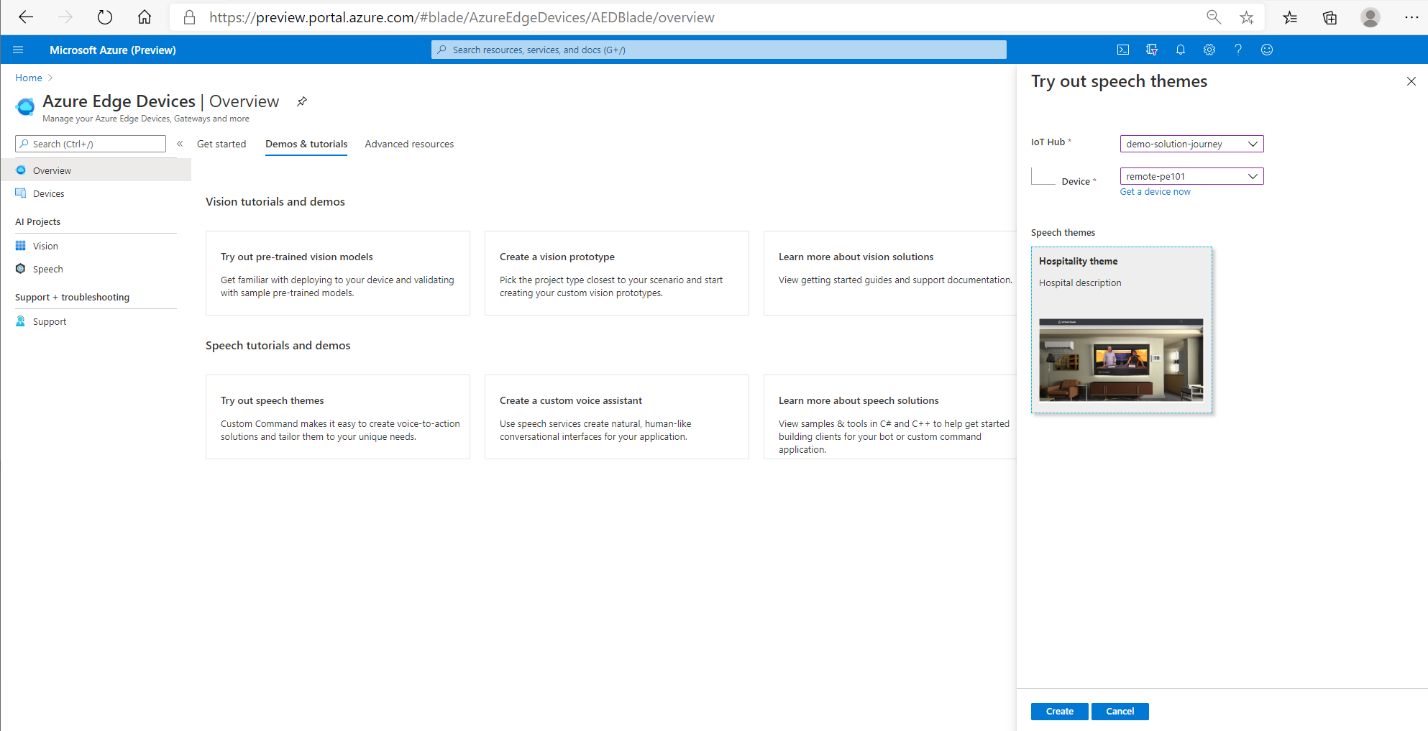
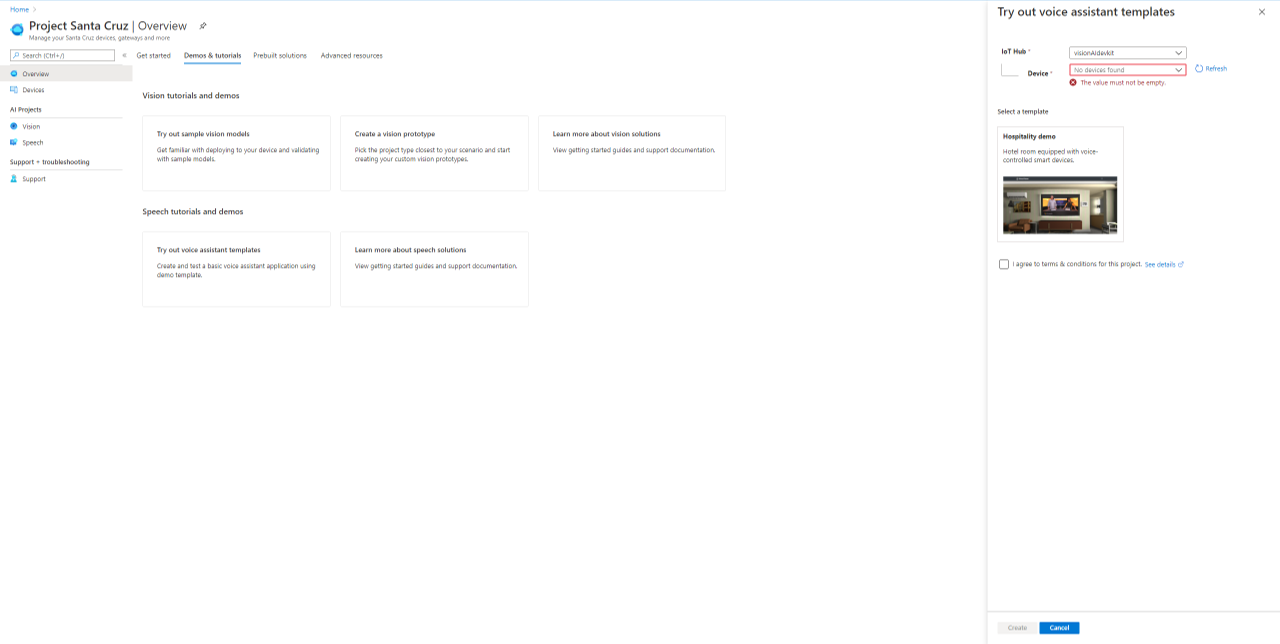
minor text update

diff --git a/user-guides/prototyping/nocode-speech.md b/user-guides/prototyping/nocode-speech.md
@@ -42,7 +42,7 @@ Alternatively, you can navigate directly to the [Project Santa Cruz Overview pag
 You can build a voice assistant using available templates. The Hospitality template is available for the private preview. Healthcare is also scheduled to be released soon.
 
 1.	Open **Demos & Tutorials** tab. 
-2.	Click **Try out speech themes** under **Speech tutorials and demos**.
+2.	Click **Try out voice assistant templates** under **Speech tutorials and demos**.
 3.	Select IoT hub to which your device is connected from the **IoT hub** list.
 4. Choose the device from the list.
 5.	Select one of the speech templates.
